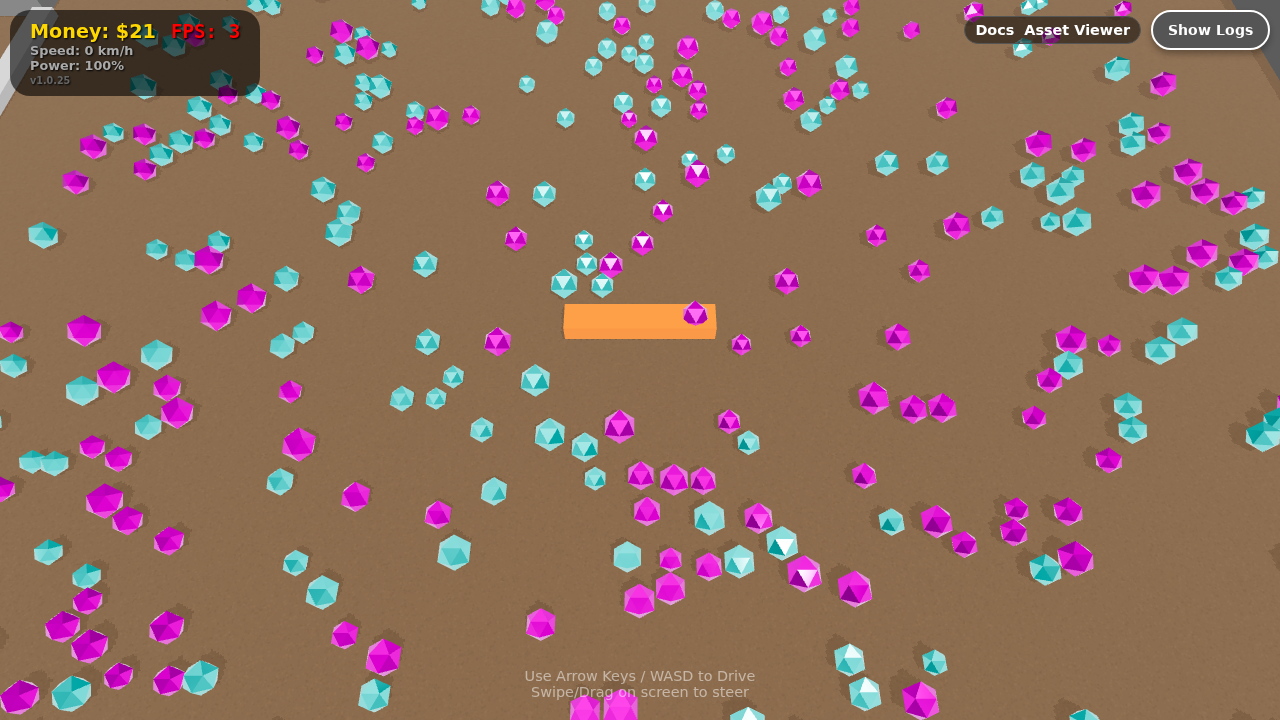
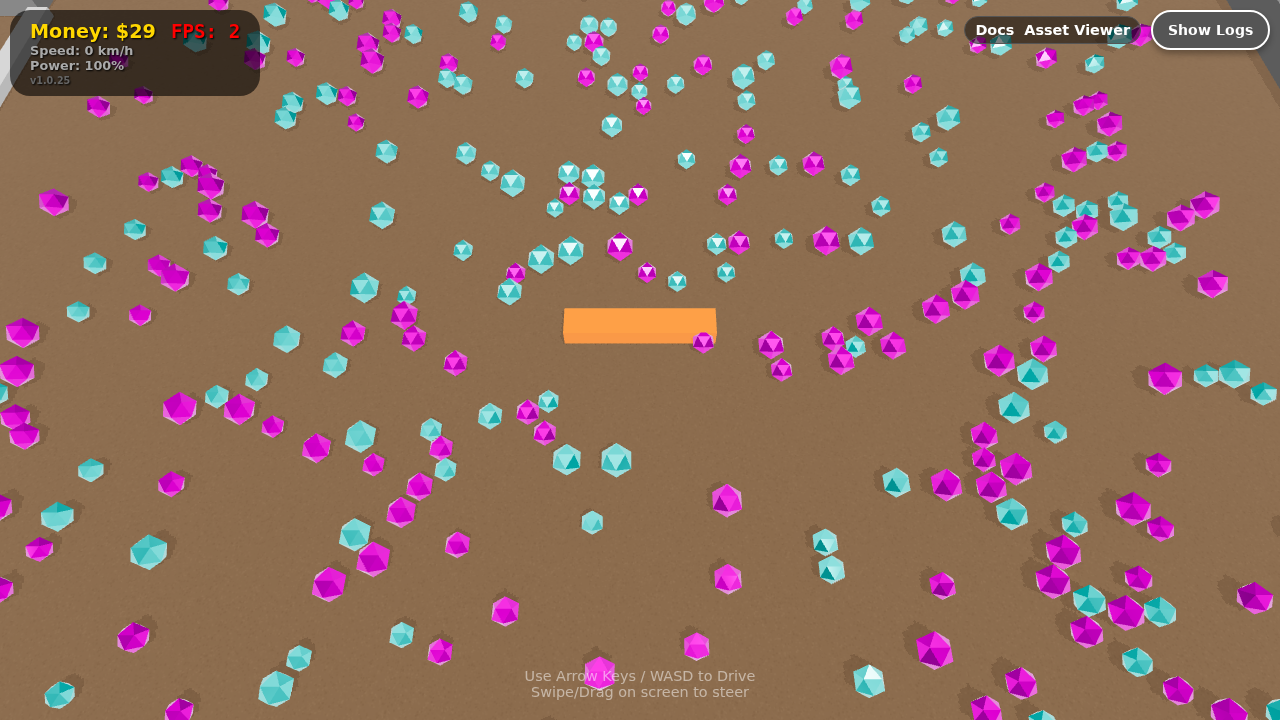
Fix plow visual artifacts and physics alignment
- Modified `src/core/graphics.js` to skip rendering of `plow_wing` debug bodies when the `BulldozerRenderer` is active, removing the orange artifacts.
- Modified `src/entities/bulldozer.js` to implement `visualScale` logic, synchronizing the physics body dimensions and offsets with the visual asset scaling.
- Aligned plow physics offset to `-42 * visualScale` to match the renderer's visual offset.

diff --git a/src/entities/bulldozer.js b/src/entities/bulldozer.js
@@ -22,23 +22,28 @@ export function createBulldozer() {
         Composite.remove(world, bulldozer);
     }
 
-    const bodySize = 40 + (state.dozerLevel * 5);
-    // Adjusted Scaling: Increase plow width growth to +8 (was +5 implicitly in previous logic, now explicit)
-    // Previous: bodySize * 1.2 + (Lvl * 40)? No, wait.
-    // Old logic: 45 + (Lvl * 5).
-    // Current logic (above): bodySize * 1.2 + (Lvl * 40). That seems huge already?
-    // Let's re-read the plan: "Increase width scaling to +8 per level".
-    // If we use the formula `Base + (Level * 8) * Scale`.
+    // New Scaling Logic: Match the visual scaling of BulldozerRenderer
+    // Visual Scale = 1.0 + (state.dozerLevel - 1) * 0.15
+    const visualScale = 1.0 + (state.dozerLevel - 1) * 0.15;
 
-    // Let's stick to the visual "Massive" look.
-    // Width = Base (26) + (Level * 14) * 1.5.
-    // Lvl 1: 60 (6 segments)
-    // Lvl 2: 81 (8 segments) -> +2.1 segments/level
-    const plowWidth = (26 + (state.plowLevel * 14)) * 1.5;
-    const plowHeight = 22;
+    // Chassis Size
+    // Base 45 approximates Level 1 of previous formula (40 + 5)
+    const bodySize = 45 * visualScale;
+
+    // Plow Dimensions
+    // Base Width Logic: 26 + (Lvl * 14) * 1.5. Lvl 1 ~ 60.
+    // We multiply by visualScale to ensure the plow grows with the chassis size visually
+    const basePlowWidth = (26 + (state.plowLevel * 14)) * 1.5;
+    const plowWidth = basePlowWidth * visualScale;
+
+    // Height also scales
+    const plowHeight = 22 * visualScale;
+
+    // Plow Offset
+    // Matches the renderer's local zOffset of -4.2 scaled by the global scale 10.0 => -42.0 base world units.
+    const plowOffset = -42 * visualScale;
 
     const chassis = Bodies.rectangle(0, 0, bodySize, bodySize, { label: 'chassis' });
-    const plowOffset = -(bodySize/2 + plowHeight/2 + 15);
     const plow = Bodies.rectangle(0, plowOffset, plowWidth, plowHeight, { label: 'plow' });
 
     let parts = [chassis, plow];
@@ -47,8 +52,10 @@ export function createBulldozer() {
     if (state.plowLevel >= 3) {
         // Wings also scale with plow level to look proportional
         const scaleFactor = 1.0 + (state.plowLevel - 3) * 0.1;
-        const wingLength = 40 * scaleFactor;
-        const wingWidth = 15 * scaleFactor;
+
+        // Apply BOTH scale factors (Plow Level scaling + Dozer Visual scaling)
+        const wingLength = 40 * scaleFactor * visualScale;
+        const wingWidth = 15 * scaleFactor * visualScale;
         const wingAngle = Math.PI / 8; // 22.5 degrees flare
 
         // Left Wing
@@ -57,8 +64,8 @@ export function createBulldozer() {
         const angleLeft = -Math.PI/2 - wingAngle;
         
         // Calculate Center Position
-        // Overlap by 10 units to ensure visual/physical continuity and seal the gap
-        const overlap = 10;
+        // Overlap by 10 units scaled to ensure visual/physical continuity
+        const overlap = 10 * visualScale;
         const lx = (-plowWidth / 2 + overlap) + (wingLength / 2) * Math.cos(angleLeft);
         const ly = plowOffset + (wingLength / 2) * Math.sin(angleLeft);
 

diff --git a/src/core/graphics.js b/src/core/graphics.js
@@ -776,7 +776,7 @@ export function updateGraphics(bulldozer, bulldozerRenderer, alpha = 1.0) {
     parts.forEach(part => {
       // Skip chassis/plow mesh creation if handled by BulldozerRenderer
       if (part.label === 'chassis') return;
-      if (part.label === 'plow' && bulldozerRenderer && bulldozerRenderer.isLoaded) return;
+      if ((part.label === 'plow' || part.label === 'plow_wing') && bulldozerRenderer && bulldozerRenderer.isLoaded) return;
 
       if (part.label === 'gem') {
         const color = part.gemColorHex;
